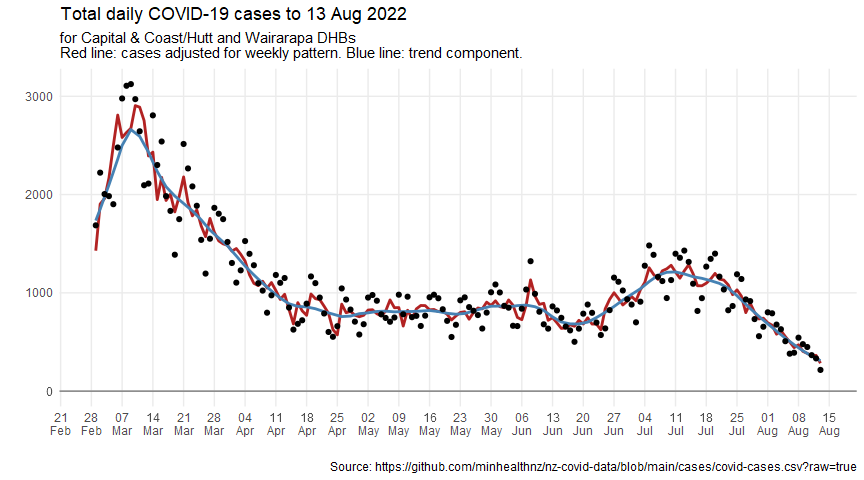
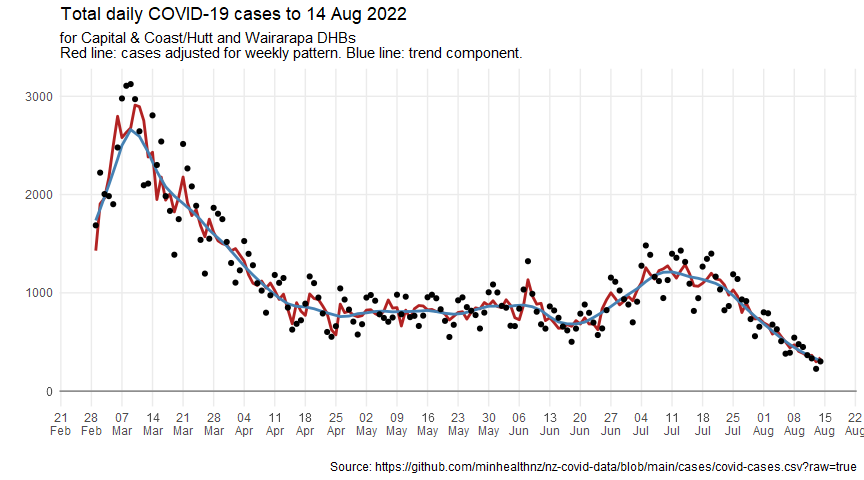
Update for 20220815

diff --git a/covid-post-peak-analysis.md b/covid-post-peak-analysis.md
@@ -29,7 +29,7 @@ cases_df <- read_csv(case_data_url) %>%
   clean_names()
 ```
 
-    ## Rows: 1687705 Columns: 7
+    ## Rows: 1691261 Columns: 7
     ## ── Column specification ────────────────────────────────────────────────────────
     ## Delimiter: ","
     ## chr  (5): Case Status, Sex, Age group, DHB, Overseas travel
@@ -46,7 +46,7 @@ cases_by_dhb_df <- cases_df %>%
   count(report_date, dhb, case_status)
 ```
 
-## Wellington figures up to 13 Aug 2022
+## Wellington figures up to 14 Aug 2022
 
 Including Hutt and Wairarapa as well as CCDHB.
 
@@ -167,10 +167,10 @@ maxima <- dhb_cases_after_transform_stl_df %>%
   summarise(cases = max(cases), adjusted = max(season_adjust), trend = max(trend))
 ```
 
-Looking at raw case numbers, the peak on 9 Mar 2022 was about 14.5 times
+Looking at raw case numbers, the peak on 9 Mar 2022 was about 13.8 times
 the lowest recent value.
 
-But when adjusting for the weekly pattern, it was 10.2 times the lowest
+But when adjusting for the weekly pattern, it was 9.8 times the lowest
 recent adjusted value, and the trend was about 8.6 times the lowest
 recent trend line.
 
